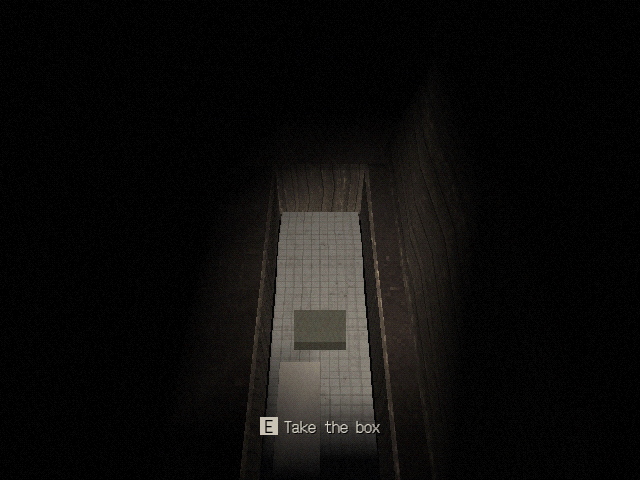
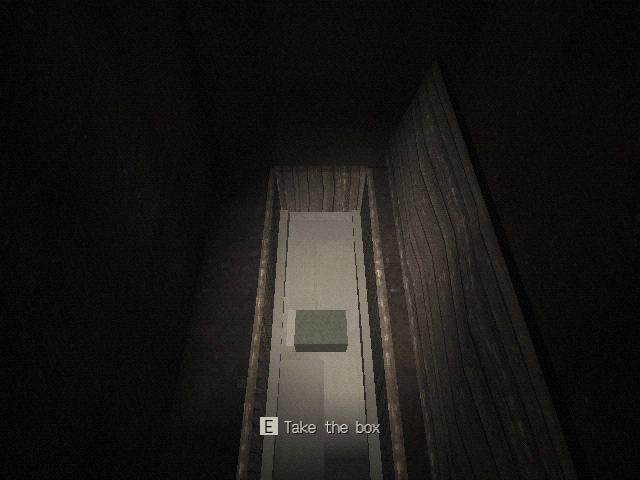
Light the open coffin faintly and give it a stained cloth lining
The empty coffin now shows with the torch off, so a player hiding from Raymond still sees the key image of night 2.

Changed region(s): [[0.3125, 0.1562, 0.875, 1.0]]

diff --git a/src/levels/cemetery/digSite.ts b/src/levels/cemetery/digSite.ts
@@ -3,6 +3,7 @@ import { playerTuning } from '../../engine/player';
 import { dialogues } from '../../content';
 import type { BoxShape, Vec2 } from '../../engine/physics/collision';
 import type { DialogueScript } from '../../game/dialogue';
+import type { LightBuilder } from '../../game/kit/builders';
 import type { LevelKit } from '../../game/kit/levelKit';
 import type { SceneContext } from '../../game/scene';
 import { playNode } from '../forest_path/play';
@@ -40,6 +41,7 @@ export const DIG_REACH = 20;
 export const REFILL_REACH = 12;
 /** Looking down at the lid from inside the hole. */
 const COFFIN_PITCH = -0.85;
+const LINING_LIGHT = 2.2;
 /** The confirm dialogue's choice that starts digging. */
 const DIG = 'Dig.';
 
@@ -134,6 +136,7 @@ export class DigSite {
   }
 
   private opened: boolean;
+  private lining: LightBuilder | null = null;
 
   private syncColliders: () => void = () => undefined;
 
@@ -246,6 +249,7 @@ export class DigSite {
       lidCrack(ctx.audio, { x: HOLE.x, y: -1.5, z: COFFIN_Z });
       this.refresh();
     }
+    if (this.lining?.light) this.lining.light.intensity = this.coffinOpen ? LINING_LIGHT : 0;
     if (this.climb) this.updateClimb(dt);
     else if (this.inHole) {
       ctx.player.position.x = STAND.x;
@@ -394,9 +398,18 @@ export class DigSite {
       side(COFFIN.w, 0.04, 0, COFFIN.d / 2);
       side(0.04, COFFIN.d, -COFFIN.w / 2, 0);
       side(0.04, COFFIN.d, COFFIN.w / 2, 0);
-      // Grey satin lining, stained and sagging, and nothing else.
-      g.plane({ w: COFFIN.w - 0.06, d: COFFIN.d - 0.06, cell: 0.3 }).texture('tiles_white', { tile: 0.9 }).color(0x7c7a76).at(0, -COFFIN.h + 0.03, 0);
-      g.plane({ w: 0.2, d: 0.5 }).color(0x5a5248).at(-0.1, -COFFIN.h + 0.035, 0.4);
+      // Grey satin lining gone dull, sagging into the corners, with water stains and nothing else.
+      g.plane({ w: COFFIN.w - 0.06, d: COFFIN.d - 0.06, cell: 0.3 }).texture('plaster_wall', { tile: 0.7 }).color(0x6c6458).at(0, -COFFIN.h + 0.03, 0);
+      [
+        [-0.1, 0.4, 0.22, 0.55, 0x4a4136],
+        [0.11, -0.3, 0.2, 0.4, 0x534a3e],
+        [-0.12, -0.05, 0.12, 0.2, 0x5a5044],
+        [0.02, -0.72, 0.36, 0.16, 0x4e463c],
+      ].forEach(([x, z, w, d, color]) => g.plane({ w: w!, d: d! }).color(color!).at(x!, -COFFIN.h + 0.035, z!));
+      // The lining's padded rim along the sides, the same cloth.
+      [-1, 1].forEach((side) =>
+        g.box({ w: 0.05, h: 0.05, d: COFFIN.d - 0.1 }).texture('plaster_wall', { tile: 0.7 }).color(0x625a4e).at(side * (COFFIN.w / 2 - 0.05), -COFFIN.h + 0.03, 0),
+      );
       // The earth around the coffin, at the level of its top.
       const strip = (HOLE.w - COFFIN.w) / 2;
       [-1, 1].forEach((side) =>
@@ -406,6 +419,9 @@ export class DigSite {
     }).at(HOLE.x, -1.6, COFFIN_Z).object;
     const lid = kit.box({ w: COFFIN.w, h: 0.04, d: COFFIN.d }).texture('wood_planks', { tile: 0.8 }).color(0xa89878).object;
     const box = kit.box({ w: 0.26, h: 0.1, d: 0.18 }).texture('rust_metal', { tile: 0.4 }).color(0x7a7e80).at(HOLE.x, -1.6 - COFFIN.h + 0.04, COFFIN_Z).object;
+
+    // The pale lining holds what little light the fog lets down, so the open coffin shows with the torch off.
+    this.lining = kit.light({ color: 0x8e9294, intensity: 0, range: 2.4 }).at(HOLE.x, -1, COFFIN_Z);
 
     const pile = kit.cylinder({ r: 1, h: 1, sides: 6 }).texture('grave_dirt', { tile: 0.8 }).color(earth).at((WEST_X + HOLE.x - HOLE.w / 2) / 2 + 0.05, 0, HOLE.z - 0.2).object;
 
